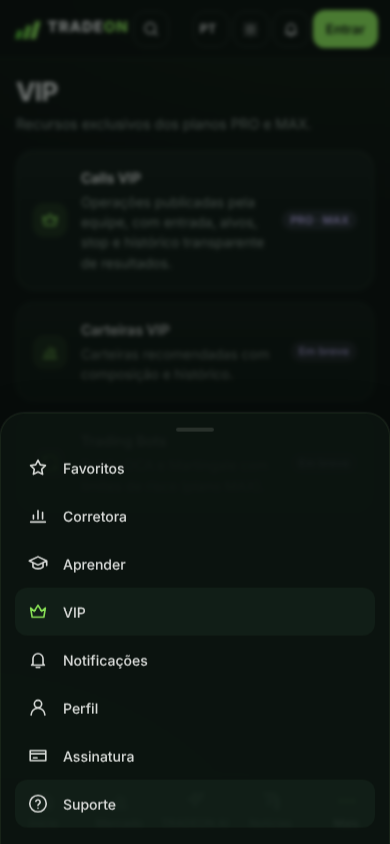
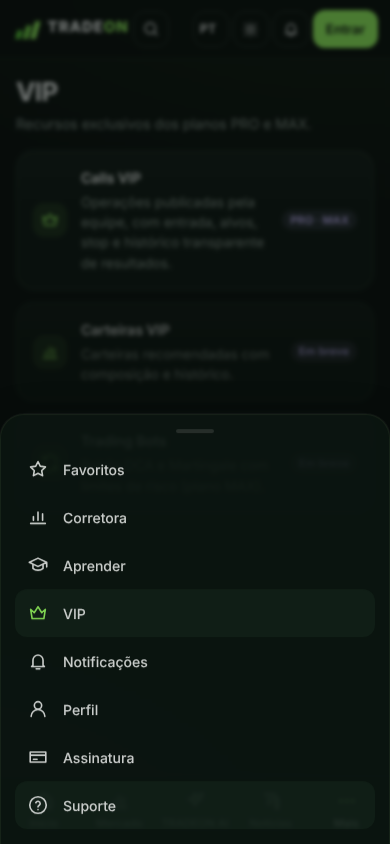
Admin: alterar plano dos usuários (cortesia PRO/MAX) e painel admin sem cortes no celular
Concessão separada de assinatura/pagamento (plan_grants), só por admin, auditada;
plano efetivo = maior entre assinatura paga e concessão vigente. Abas do admin em
grade no celular e lista de usuários em cartões.

Claude-Session: https://claude.ai/code/session_017CdmavtXnn7b6KQjNdhrWi

diff --git a/tests/unit/db-migrations.test.ts b/tests/unit/db-migrations.test.ts
@@ -29,7 +29,7 @@ beforeAll(async () => {
 describe("migrações em Postgres real", () => {
   it("todas aplicam em ordem e as tabelas têm RLS ligada", async () => {
     const r = await db.query<{ relname: string; relrowsecurity: boolean }>(`select relname, relrowsecurity from pg_class where relnamespace='public'::regnamespace and relkind='r' order by 1`);
-    expect(r.rows.map((x) => x.relname)).toEqual(["admin_audit_logs", "ai_conversations", "ai_examples", "ai_knowledge", "ai_knowledge_chunks", "ai_messages", "ai_requests", "ai_settings", "ai_usage", "app_admins", "broker_connections", "favorites", "notifications", "payment_webhook_events", "profiles", "subscription_events", "subscription_payments", "subscription_plans", "subscriptions", "user_preferences", "vip_call_events", "vip_calls"]);
+    expect(r.rows.map((x) => x.relname)).toEqual(["admin_audit_logs", "ai_conversations", "ai_examples", "ai_knowledge", "ai_knowledge_chunks", "ai_messages", "ai_requests", "ai_settings", "ai_usage", "app_admins", "broker_connections", "favorites", "notifications", "payment_webhook_events", "plan_grants", "profiles", "subscription_events", "subscription_payments", "subscription_plans", "subscriptions", "user_preferences", "vip_call_events", "vip_calls"]);
     expect(r.rows.every((x) => x.relrowsecurity)).toBe(true);
   });
   it("cadastro cria perfil (nome; telefone só em E.164) e notificação de boas-vindas", async () => {
@@ -370,5 +370,53 @@ describe("Conexões com corretoras (Postgres real)", () => {
       expect((await db.query("select status, bots_allowed, last_error from public.broker_connections")).rows).toEqual([{ status: "invalid", bots_allowed: false, last_error: "invalid_key" }]);
       await db.query("delete from public.broker_connections where id = $1", [id]); expect((await db.query("select id from public.broker_connections")).rows).toEqual([]);
     });
+  });
+});
+
+describe("Plano concedido pelo administrador (cortesia, não pagamento)", () => {
+  const ADM = "c1c1c1c1-c1c1-4c1c-8c1c-c1c1c1c1c1c1", U = "c2c2c2c2-c2c2-4c2c-8c2c-c2c2c2c2c2c2", P = "c3c3c3c3-c3c3-4c3c-8c3c-c3c3c3c3c3c3", S = "s".repeat(40);
+  beforeAll(async () => {
+    await db.query("insert into auth.users (id, email) values ($1, 'gadm@t.com'), ($2, 'gu@t.com'), ($3, 'gpaid@t.com')", [ADM, U, P]);
+    await db.query("insert into public.app_admins (user_id) values ($1)", [ADM]);
+    await db.query(`select public.billing_sync_subscription($1, $2, 'pro', 'active', 'stripe', 'cus_g', 'sub_g', now(), now(), now() + interval '30 days', false, null, 'teste')`, [S, P]);
+  });
+  const plan = async (uid: string) => (await db.query<{ p: string }>("select public.current_plan($1) p", [uid])).rows[0].p;
+  it("só admin concede; usuário não se dá plano nem escreve na tabela", async () => {
+    await as(U, async () => {
+      expect(await fails(db.query("select public.admin_set_plan($1, 'max')", [U]))).toBe(true);
+      expect(await fails(db.query("insert into public.plan_grants (user_id, plan_id) values ($1, 'max')", [U]))).toBe(true);
+    });
+    expect(await plan(U)).toBe("free");
+  });
+  it("concede PRO/MAX com ou sem prazo, sem tocar em assinatura/pagamento; auditado", async () => {
+    await as(ADM, async () => { await db.query("select public.admin_set_plan($1, 'max', 30, 'parceiro')", [U]); });
+    expect(await plan(U)).toBe("max");
+    await as(U, async () => {
+      expect((await db.query<{ p: string }>("select public.my_plan() p")).rows[0].p).toBe("max");
+      expect((await db.query("select plan_id from public.plan_grants")).rows).toEqual([{ plan_id: "max" }]);
+      expect(await fails(db.query("select note from public.plan_grants"))).toBe(true);
+    });
+    expect((await db.query("select count(*)::int n from public.subscription_payments where user_id = $1", [U])).rows[0]).toEqual({ n: 0 });
+    expect((await db.query("select plan_id, status from public.subscriptions where user_id = $1", [U])).rows).toEqual([{ plan_id: "free", status: "none" }]);
+    const a = await db.query<{ action: string; details: { plan: string; days: number } }>("select action, details from public.admin_audit_logs where target_id = $1 order by created_at", [U]);
+    expect(a.rows.map((x) => [x.action, x.details.plan, x.details.days])).toEqual([["plan.grant", "max", 30]]);
+    await as(ADM, async () => {
+      const r = await db.query<{ plan: string; grant_plan: string; grant_expires: string | null }>("select plan, grant_plan, grant_expires from public.admin_list_users('gu@')");
+      expect(r.rows[0].plan).toBe("max"); expect(r.rows[0].grant_plan).toBe("max"); expect(r.rows[0].grant_expires).not.toBeNull();
+      await db.query("select public.admin_set_plan($1, 'pro')", [U]);
+    });
+    expect(await plan(U)).toBe("pro");
+    expect((await db.query("select expires_at from public.plan_grants where user_id = $1", [U])).rows).toEqual([{ expires_at: null }]);
+  });
+  it("concessão vencida não vale; FREE remove a cortesia mas não cancela assinatura paga; maior plano prevalece", async () => {
+    await db.query("update public.plan_grants set expires_at = now() - interval '1 minute' where user_id = $1", [U]);
+    expect(await plan(U)).toBe("free");
+    await as(ADM, async () => {
+      await db.query("select public.admin_set_plan($1, 'max')", [P]); expect((await db.query<{ plan: string }>("select plan from public.admin_list_users('gpaid@')")).rows[0].plan).toBe("max");
+      await db.query("select public.admin_set_plan($1, 'free')", [P]);
+      for (const q of ["select public.admin_set_plan($1, 'gold')", "select public.admin_set_plan($1, 'pro', 0)", "select public.admin_set_plan($1, 'pro', 99999)"]) expect(await fails(db.query(q, [P])), q).toBe(true);
+      expect(await fails(db.query("select public.admin_set_plan('c9c9c9c9-c9c9-4c9c-8c9c-c9c9c9c9c9c9', 'pro')"))).toBe(true);
+    });
+    expect(await plan(P)).toBe("pro");
   });
 });

diff --git a/app/(app)/admin/usuarios/page.tsx b/app/(app)/admin/usuarios/page.tsx
@@ -2,6 +2,11 @@ import { adminListUsers } from "@/services/calls";
 import { getSessionUser } from "@/services/session";
 import { clock } from "@/lib/format";
 import { AdminToggle } from "@/features/admin/AdminToggle";
+import { PlanControl } from "@/features/admin/PlanControl";
+
+const day = (iso: string) => new Date(iso).toLocaleDateString("pt-BR", { day: "2-digit", month: "short", year: "numeric", timeZone: "America/Sao_Paulo" });
+const paidPlan = (u: { sub_plan: string | null; sub_status: string | null; period_end: string | null }) =>
+  u.sub_plan && u.sub_plan !== "free" && ["active", "trialing", "past_due"].includes(u.sub_status ?? "") && (!u.period_end || Date.parse(u.period_end) > Date.now()) ? u.sub_plan : "free";
 
 export default async function AdminUsers({ searchParams }: { searchParams: Promise<Record<string, string | undefined>> }) {
   const sp = await searchParams; const q = (sp.q ?? "").slice(0, 80); const page = Math.max(0, Number(sp.p) || 0);
@@ -10,10 +15,16 @@ export default async function AdminUsers({ searchParams }: { searchParams: Promi
     <div className="page-h"><div><h1>Usuários</h1><p className="mt" style={{ margin: "6px 0 0" }}>Plano efetivo calculado no banco · dados pessoais visíveis só para administradores</p></div></div>
     <form className="row cv-filters" action="/admin/usuarios" method="get" role="search"><label className="sr" htmlFor="uq">Buscar</label><input id="uq" name="q" defaultValue={q} placeholder="E-mail ou nome" /><button className="btn s">Buscar</button></form>
     {!users ? <p className="note" role="alert">Não foi possível carregar os usuários.</p> : users.length === 0 ? <p className="note">Nenhum usuário encontrado.</p> :
-      <div className="card"><div className="tw"><table data-testid="adm-users"><thead><tr><th>Usuário</th><th>Plano</th><th>Assinatura</th><th>IA</th><th>Desde</th><th>Admin</th></tr></thead>
-        <tbody>{users.map((u) => <tr key={u.id}><td><b>{u.name ?? "—"}</b><div className="src">{u.email}</div></td><td><span className={`bd ${u.plan === "free" ? "v" : ""}`}>{u.plan.toUpperCase()}</span></td>
-          <td className="src">{u.sub_status ?? "—"}{u.period_end ? ` · até ${clock(u.period_end, "pt")}` : ""}</td><td className="num">{u.ai_used}</td><td className="src">{clock(u.created_at, "pt")}</td>
-          <td>{u.is_admin && <span className="bd">admin</span>} <AdminToggle id={u.id} admin={u.is_admin} self={u.id === me?.id} /></td></tr>)}</tbody></table></div></div>}
-    <p className="src">Bloqueio/suspensão de contas ainda não implementado: exige a chave de serviço do Supabase (Auth Admin) num backend separado — ver relatório.</p>
+      <div className="card"><table className="adm-users" data-testid="adm-users"><thead><tr><th>Usuário</th><th>Plano</th><th>Alterar plano</th><th>IA</th><th>Desde</th><th>Admin</th></tr></thead>
+        <tbody>{users.map((u) => { const paid = paidPlan(u); return (<tr key={u.id}>
+          <td data-l="Usuário"><b>{u.name ?? "—"}</b><div className="src au-mail">{u.email}</div></td>
+          <td data-l="Plano"><span className={`bd ${u.plan === "free" ? "v" : ""}`} data-testid="adm-plan-badge">{u.plan.toUpperCase()}</span>
+            <div className="src" data-testid="adm-plan-src">{u.grant_plan ? `cortesia ${u.grant_plan.toUpperCase()}${u.grant_expires ? ` até ${day(u.grant_expires)}` : " · sem prazo"}` : null}
+              {u.grant_plan && paid !== "free" ? " · " : null}{paid !== "free" ? `pago ${paid.toUpperCase()}${u.period_end ? ` até ${day(u.period_end)}` : ""}` : null}
+              {!u.grant_plan && paid === "free" && u.sub_status && u.sub_status !== "none" ? `assinatura ${u.sub_status}` : null}</div></td>
+          <td data-l="Alterar plano"><PlanControl id={u.id} email={u.email} grant={u.grant_plan} paid={paid} /></td>
+          <td data-l="Mensagens IA" className="num">{u.ai_used}</td><td data-l="Desde" className="src">{clock(u.created_at, "pt")}</td>
+          <td data-l="Admin">{u.is_admin && <span className="bd">admin</span>} <AdminToggle id={u.id} admin={u.is_admin} self={u.id === me?.id} /></td></tr>); })}</tbody></table></div>}
+    <p className="src">“Alterar plano” libera PRO/MAX como cortesia (sem cobrança, registrado na auditoria) e não mexe em assinatura paga. Bloqueio/suspensão de contas ainda não implementado: exige a chave de serviço do Supabase (Auth Admin) num backend separado.</p>
   </>);
 }

diff --git a/services/subscription.ts b/services/subscription.ts
@@ -2,18 +2,25 @@ import { cache } from "react";
 import { NextResponse } from "next/server";
 import { getSupabase } from "@/lib/supabase/server";
 import { getSessionUser, type SessionUser } from "./session";
-import { can, effectivePlan, minPlanFor, type Feature, type PlanId } from "@/lib/plans";
+import { PLANS, can, effectivePlan, isPlanId, minPlanFor, type Feature, type PlanId } from "@/lib/plans";
 
 export interface SubscriptionRow { plan_id: string; status: string; provider: string | null; provider_customer_id: string | null; started_at: string | null; current_period_start: string | null; current_period_end: string | null; cancel_at_period_end: boolean; canceled_at: string | null; updated_at: string }
-export interface Entitlements { user: SessionUser; plan: PlanId; sub: SubscriptionRow | null }
+export interface PlanGrant { plan_id: "pro" | "max"; expires_at: string | null }
+export interface Entitlements { user: SessionUser; plan: PlanId; sub: SubscriptionRow | null; grant: PlanGrant | null }
 
 /** Assinatura e plano efetivo do usuário logado (lidos com a sessão dele; RLS garante que só vê a própria). */
 export const getEntitlements = cache(async (): Promise<Entitlements | null> => {
   const user = await getSessionUser(); if (!user) return null;
-  const sb = await getSupabase(); if (!sb) return { user, plan: "free", sub: null };
-  const { data } = await sb.from("subscriptions").select("plan_id,status,provider,provider_customer_id,started_at,current_period_start,current_period_end,cancel_at_period_end,canceled_at,updated_at").eq("user_id", user.id).maybeSingle();
+  const sb = await getSupabase(); if (!sb) return { user, plan: "free", sub: null, grant: null };
+  const [{ data }, g] = await Promise.all([
+    sb.from("subscriptions").select("plan_id,status,provider,provider_customer_id,started_at,current_period_start,current_period_end,cancel_at_period_end,canceled_at,updated_at").eq("user_id", user.id).maybeSingle(),
+    sb.from("plan_grants").select("plan_id,expires_at").eq("user_id", user.id).maybeSingle(),
+  ]);
   const sub = (data as SubscriptionRow | null) ?? null;
-  return { user, plan: effectivePlan(sub), sub };
+  // Plano concedido pela equipe (cortesia, sem cobrança): vale enquanto não vencer; prevalece o maior dos dois — igual a public.current_plan.
+  const gr = (g.data as PlanGrant | null) ?? null; const grant = gr && isPlanId(gr.plan_id) && (!gr.expires_at || Date.parse(gr.expires_at) > Date.now()) ? gr : null;
+  const paid = effectivePlan(sub); const plan = grant && PLANS[grant.plan_id].rank > PLANS[paid].rank ? grant.plan_id : paid;
+  return { user, plan, sub, grant };
 });
 
 /** Porteiro das APIs premium: 401 sem sessão, 403 (com o plano necessário) sem permissão. */

diff --git a/features/admin/PlanControl.tsx b/features/admin/PlanControl.tsx
@@ -1,0 +1,25 @@
+"use client";
+import { useState } from "react";
+import { useRouter } from "next/navigation";
+
+const DUR = [["", "Sem prazo"], ["7", "7 dias"], ["30", "30 dias"], ["90", "90 dias"], ["365", "1 ano"]] as const;
+/** Troca o plano de uma conta por concessão do admin (cortesia, sem cobrança). "Free" retira a cortesia; assinatura paga continua valendo. */
+export function PlanControl({ id, email, grant, paid }: { id: string; email: string; grant: "pro" | "max" | null; paid: string }) {
+  const router = useRouter(); const [plan, setPlan] = useState<string>(grant ?? "free"); const [days, setDays] = useState(""); const [busy, setBusy] = useState(false); const [err, setErr] = useState<string | null>(null);
+  const changed = plan !== (grant ?? "free") || (plan !== "free" && days !== "");
+  async function go() {
+    const msg = plan === "free" ? `Retirar o plano concedido de ${email}?${paid !== "free" ? ` A assinatura paga (${paid.toUpperCase()}) continua valendo.` : ""}`
+      : `Liberar o plano ${plan.toUpperCase()} para ${email} ${days ? `por ${DUR.find((d) => d[0] === days)?.[1]}` : "sem prazo"}? Sem cobrança — fica registrado na auditoria.`;
+    if (!window.confirm(msg)) return;
+    setBusy(true); setErr(null);
+    const r = await fetch(`/api/admin/users/${id}`, { method: "POST", headers: { "content-type": "application/json" }, body: JSON.stringify(plan === "free" ? { plan } : { plan, days: days ? Number(days) : null }) });
+    setBusy(false); if (r.ok) { setDays(""); router.refresh(); } else setErr("Não foi possível alterar.");
+  }
+  return (<div className="adm-plan" data-testid="adm-plan">
+    <select aria-label={`Plano de ${email}`} value={plan} onChange={(e) => setPlan(e.target.value)} disabled={busy} data-testid="adm-plan-sel">
+      <option value="free">Free</option><option value="pro">Pro</option><option value="max">Max</option></select>
+    {plan !== "free" && <select aria-label="Duração" value={days} onChange={(e) => setDays(e.target.value)} disabled={busy} data-testid="adm-plan-days">{DUR.map(([v, t]) => <option key={v} value={v}>{t}</option>)}</select>}
+    <button type="button" className="btn sm" disabled={busy || !changed} onClick={go} data-testid="adm-plan-apply">{busy ? "…" : "Aplicar"}</button>
+    {err && <small className="af-err">{err}</small>}
+  </div>);
+}

diff --git a/app/(app)/assinatura/page.tsx b/app/(app)/assinatura/page.tsx
@@ -28,9 +28,10 @@ export default async function Assinatura({ searchParams }: { searchParams: Promi
       <div><small>{tr("pl.currentPlan")}</small><b data-testid="cur-plan">{PLANS[ent.plan].name}</b></div>
       <div><small>Status</small><b><span className={`bd ${st === "active" || st === "trialing" ? "" : st === "past_due" ? "a" : st === "none" ? "v" : "r"}`} data-testid="cur-status">{tr(`pl.st.${st}` as never)}</span></b></div>
       <div><small>{tr("pl.since")}</small><b>{date(s?.started_at ?? null)}</b></div>
-      <div><small>{s?.cancel_at_period_end || st === "canceled" ? tr("pl.ends") : tr("pl.renews")}</small><b>{ent.plan === "free" ? "—" : date(s?.current_period_end ?? null)}</b></div>
+      <div><small>{s?.cancel_at_period_end || st === "canceled" ? tr("pl.ends") : tr("pl.renews")}</small><b>{ent.plan === "free" ? "—" : ent.grant?.plan_id === ent.plan ? date(ent.grant.expires_at) : date(s?.current_period_end ?? null)}</b></div>
       <div><small>{tr("pl.aiUsage")}</small><b data-testid="ai-quota">{quota ? (quota.limit === null ? tr("pl.aiUnlimited") : tr("pl.aiUsed", { used: String(Math.min(quota.used, quota.limit)), limit: String(quota.limit) })) : "—"}</b></div>
     </section>
+    {ent.grant && ent.grant.plan_id === ent.plan && <p className="note" role="status" data-testid="plan-grant">{lang === "pt" ? `Plano ${PLANS[ent.grant.plan_id].name} liberado pela equipe TRADEON, sem cobrança${ent.grant.expires_at ? `, até ${date(ent.grant.expires_at)}` : ""}.` : `${PLANS[ent.grant.plan_id].name} plan granted by the TRADEON team, free of charge${ent.grant.expires_at ? `, until ${date(ent.grant.expires_at)}` : ""}.`}</p>}
     {s?.cancel_at_period_end && ent.plan !== "free" && <p className="note" role="status">{tr("pl.cancelNote", { date: date(s.current_period_end) })}</p>}
     {st === "past_due" && ent.plan !== "free" && <p className="note" role="alert">{tr("pl.pastDueNote", { date: date(s?.current_period_end ?? null) })}</p>}
 

diff --git a/app/api/admin/users/[id]/route.ts b/app/api/admin/users/[id]/route.ts
@@ -2,11 +2,20 @@ import { NextResponse } from "next/server";
 import { z } from "zod";
 import { adminCtx, dbError } from "@/lib/adminApi";
 
-/** Concede/remove permissão administrativa (auditado no banco; ninguém remove a si mesmo). */
+const Body = z.union([
+  z.object({ admin: z.boolean() }).strict(),
+  z.object({ plan: z.enum(["free", "pro", "max"]), days: z.number().int().min(1).max(3650).nullable().optional(), note: z.string().max(200).optional() }).strict(),
+]);
+/** Ações do admin sobre uma conta (autorização e auditoria no banco):
+ *  - { admin } concede/remove permissão administrativa (ninguém remove a si mesmo);
+ *  - { plan, days?, note? } concede plano PRO/MAX como cortesia (sem cobrança, separado de assinatura/pagamento) ou "free" para retirar a cortesia. */
 export async function POST(req: Request, { params }: { params: Promise<{ id: string }> }) {
   const ctx = await adminCtx(req); if ("res" in ctx) return ctx.res;
-  const id = (await params).id; const b = z.object({ admin: z.boolean() }).strict().safeParse(await req.json().catch(() => null));
+  const id = (await params).id; const b = Body.safeParse(await req.json().catch(() => null));
   if (!/^[0-9a-f-]{36}$/i.test(id) || !b.success) return NextResponse.json({ error: "invalid" }, { status: 400 });
-  const { error } = await ctx.sb.rpc("admin_set_admin", { p_user: id, p_admin: b.data.admin }); if (error) return dbError(error);
+  const { error } = "admin" in b.data
+    ? await ctx.sb.rpc("admin_set_admin", { p_user: id, p_admin: b.data.admin })
+    : await ctx.sb.rpc("admin_set_plan", { p_user: id, p_plan: b.data.plan, p_days: b.data.plan === "free" ? null : b.data.days ?? null, p_note: b.data.note || null });
+  if (error) return dbError(error);
   return NextResponse.json({ ok: true });
 }

diff --git a/app/globals.css b/app/globals.css
@@ -616,3 +616,20 @@ html.splash-out .splash-ov{opacity:0;pointer-events:none}
 .bk-howto{margin:12px 0;padding-left:20px;font-size:13.5px;color:var(--mt);display:grid;gap:4px}
 .bk-new{max-width:760px}
 td.up,b.up{color:var(--g-tx)}td.dn,b.dn{color:var(--rd)}
+/* Admin: a grade não pode ser alargada por tabelas/abas (no celular cortava a página). */
+.adm{grid-template-columns:minmax(0,1fr)}.adm>*{min-width:0}
+.adm .page-h p,.adm .src{overflow-wrap:anywhere}
+.adm-plan{display:flex;flex-wrap:wrap;gap:6px;align-items:center}
+.adm-plan select{min-height:36px;width:auto;padding:0 30px 0 10px}
+table.adm-users{width:100%}
+@media (max-width:760px){
+  table.adm-users thead{display:none}
+  table.adm-users,table.adm-users tbody,table.adm-users tr,table.adm-users td{display:block;width:100%}
+  table.adm-users tr{padding:14px 0;border-bottom:1px solid var(--bd)}table.adm-users tr:last-child{border-bottom:0}
+  table.adm-users td{border:0;padding:4px 0;display:flex;flex-wrap:wrap;gap:6px 10px;align-items:center;justify-content:flex-end;text-align:right}
+  table.adm-users td::before{content:attr(data-l);color:var(--mt);font-size:12px;text-transform:uppercase;letter-spacing:.04em;text-align:left;margin-right:auto}
+  table.adm-users td:first-child{display:block;text-align:left}table.adm-users td:first-child::before{content:none}
+  table.adm-users td:not(:first-child)>.src{flex-basis:100%;text-align:right}
+  .adm>nav.ctabs{width:100%;display:grid;grid-template-columns:repeat(4,minmax(0,1fr));gap:2px}
+  .adm>nav.ctabs a{padding:8px 4px;font-size:13px;text-align:center;overflow:hidden;text-overflow:ellipsis}
+}

diff --git a/lib/adminApi.ts b/lib/adminApi.ts
@@ -11,9 +11,9 @@ export async function adminCtx(req: Request) {
   const sb = await getSupabase(); if (!sb) return { res: NextResponse.json({ error: "unavailable" }, { status: 503 }) } as const;
   return { sb } as const;
 }
-const KNOWN = ["admin_required", "not_found", "call_finished", "not_draft", "not_active", "invalid_target", "target_out_of_order", "invalid_reason", "no_targets_hit", "exit_required", "cannot_remove_self"];
+const KNOWN = ["admin_required", "not_found", "call_finished", "not_draft", "not_active", "invalid_target", "target_out_of_order", "invalid_reason", "no_targets_hit", "exit_required", "cannot_remove_self", "invalid_plan", "invalid_days", "user_not_found"];
 export function dbError(e: { message?: string; code?: string } | null) {
   const msg = e?.message ?? ""; const code = KNOWN.find((k) => msg.includes(k)) ?? (e?.code === "23514" ? "invalid_levels" : "unavailable");
-  const status = code === "admin_required" ? 403 : code === "not_found" ? 404 : code === "unavailable" ? 503 : 400;
+  const status = code === "admin_required" ? 403 : code === "not_found" || code === "user_not_found" ? 404 : code === "unavailable" ? 503 : 400;
   return NextResponse.json({ error: code }, { status });
 }

diff --git a/services/calls.ts b/services/calls.ts
@@ -28,7 +28,7 @@ export async function getCall(id: string): Promise<{ call: VipCall; events: Call
 export async function adminOverview(): Promise<Record<string, unknown> | null> {
   const sb = await getSupabase(); if (!sb) return null; const { data, error } = await sb.rpc("admin_overview"); return error ? null : (data as Record<string, unknown>);
 }
-export interface AdminUser { id: string; email: string; name: string | null; created_at: string; plan: string; sub_status: string | null; period_end: string | null; ai_used: number; is_admin: boolean }
+export interface AdminUser { id: string; email: string; name: string | null; created_at: string; plan: string; sub_status: string | null; period_end: string | null; ai_used: number; is_admin: boolean; sub_plan: string | null; grant_plan: "pro" | "max" | null; grant_expires: string | null }
 export async function adminListUsers(search = "", offset = 0): Promise<AdminUser[] | null> {
   const sb = await getSupabase(); if (!sb) return null; const { data, error } = await sb.rpc("admin_list_users", { p_search: search || null, p_limit: 50, p_offset: offset }); return error ? null : (data as AdminUser[]);
 }

diff --git a/tests/e2e/admin_plans.py b/tests/e2e/admin_plans.py
@@ -1,0 +1,66 @@
+"""E2E: admin troca o plano de usuários (cortesia PRO/MAX, sem cobrança) e o painel admin no celular sem cortes. Requer `npm run build`."""
+import json, re, subprocess, os, time, urllib.request
+from playwright.sync_api import sync_playwright
+from common import *
+
+m = mock()
+sb = subprocess.Popen(["node", "tests/mock-supabase.mjs"], stdout=subprocess.DEVNULL, preexec_fn=os.setsid); time.sleep(1)
+ENV = {"SUPABASE_URL": "http://127.0.0.1:4020", "SUPABASE_ANON_KEY": "anon-test", "COINGECKO_BASE_URL": "http://127.0.0.1:4010/ok", "NEWS_API_BASE_URL": "http://127.0.0.1:4010/ok", "NEWS_API_KEY": "t", "REGISTER_RATE_IP_PER_HOUR": "1000"}
+s1 = start(3976, ENV); B = "http://127.0.0.1:3976"
+def mk(path): return urllib.request.urlopen("http://127.0.0.1:4020" + path).read().decode()
+_n = [9500]
+def fresh(): _n[0] += 1; return f"ok{_n[0]}@teste.com"
+def login(pg, email):
+    pg.goto(B + "/login"); pg.wait_for_selector("form"); pg.fill("#email", email); pg.fill("#password", "Senha@123")
+    pg.get_by_role("button", name=re.compile("^(Entrar|Sign in)")).click(); pg.wait_for_url(B + "/", timeout=15000); pg.wait_for_load_state("networkidle")
+def go(pg, path, sel="main h1"): pg.goto(B + path); pg.wait_for_selector(sel, timeout=25000); pg.wait_for_load_state("networkidle")
+def api(pg, method, path, body=None): return pg.evaluate("([m,p,b])=>fetch(p,{method:m,headers:{'content-type':'application/json'},body:b?JSON.stringify(b):undefined}).then(async r=>[r.status,await r.text()])", [method, path, body])
+def row(pg, email): return pg.locator("[data-testid=adm-users] tr", has_text=email)
+def set_plan(pg, email, plan, days=None):
+    r = row(pg, email); r.get_by_test_id("adm-plan-sel").select_option(plan)
+    if days is not None: r.get_by_test_id("adm-plan-days").select_option(days)
+    r.get_by_test_id("adm-plan-apply").click(); pg.wait_for_timeout(600); pg.wait_for_load_state("networkidle")
+try:
+    with sync_playwright() as p:
+        b = p.chromium.launch(); errs = []
+        mk("/__reset")
+        uA, uF, uP = fresh(), fresh(), fresh(); mk(f"/__set_plan?email={uA}&plan=free"); mk(f"/__set_admin?email={uA}"); mk(f"/__set_plan?email={uF}&plan=free"); mk(f"/__set_plan?email={uP}&plan=pro")
+        A = b.new_context(viewport={"width": 1440, "height": 900}); pa = A.new_page(); pa.on("pageerror", lambda e: errs.append(str(e)[:80])); pa.on("dialog", lambda d: d.accept()); login(pa, uA)
+        F = b.new_context(); pf = F.new_page(); login(pf, uF); P2 = b.new_context(); login(P2.new_page(), uP)
+        go(pf, "/corretora"); check("FREE antes: sem acesso ao recurso MAX", pf.get_by_test_id("paywall").is_visible())
+        check("usuário comum não altera plano pela API (403)", api(pf, "POST", "/api/admin/users/00000000-0000-4000-8000-000000000000", {"plan": "max"})[0] == 403)
+        go(pa, "/admin/usuarios", "[data-testid=adm-users]")
+        check("Aplicar desabilitado sem mudança", row(pa, uF).get_by_test_id("adm-plan-apply").is_disabled())
+        set_plan(pa, uF, "max", "30")
+        check("admin libera MAX por 30 dias: selo MAX e origem 'cortesia até …'", row(pa, uF).get_by_test_id("adm-plan-badge").inner_text() == "MAX" and "cortesia MAX até" in row(pa, uF).get_by_test_id("adm-plan-src").inner_text(), row(pa, uF).inner_text()[:200])
+        aud = [a for a in json.loads(mk("/__calls"))["audit"] if a["action"].startswith("plan.")]
+        check("ação registrada na auditoria (plan.grant, 30 dias)", len(aud) == 1 and aud[0]["action"] == "plan.grant" and aud[0]["details"]["days"] == 30)
+        bill = json.loads(mk("/__billing")); check("nenhum pagamento nem assinatura paga criados (não simula cobrança)", bill["payments"] == [] and not any(x["plan_id"] == "max" for x in bill["subs"].values()))
+        go(pf, "/corretora", "main h1"); check("usuário passa a ter o recurso MAX na hora", pf.locator("[data-testid=paywall]").count() == 0 and pf.locator("[data-testid=bk-form]").count() == 1)
+        go(pf, "/assinatura", "[data-testid=cur-plan]"); check("assinatura mostra Max e aviso 'liberado pela equipe, sem cobrança'", pf.get_by_test_id("cur-plan").inner_text() == "Max" and "sem cobrança" in pf.get_by_test_id("plan-grant").inner_text())
+        go(pa, "/admin/usuarios", "[data-testid=adm-users]"); set_plan(pa, uF, "pro")
+        check("troca para PRO sem prazo", row(pa, uF).get_by_test_id("adm-plan-badge").inner_text() == "PRO" and "sem prazo" in row(pa, uF).get_by_test_id("adm-plan-src").inner_text())
+        go(pf, "/corretora"); check("PRO volta a ver o convite do MAX", pf.get_by_test_id("paywall").is_visible())
+        go(pa, "/admin/usuarios", "[data-testid=adm-users]"); set_plan(pa, uF, "free")
+        check("Free retira a cortesia", row(pa, uF).get_by_test_id("adm-plan-badge").inner_text() == "FREE")
+        set_plan(pa, uP, "max")
+        check("assinante PRO pago recebe MAX: mostra cortesia e pago", row(pa, uP).get_by_test_id("adm-plan-badge").inner_text() == "MAX" and "pago PRO" in row(pa, uP).get_by_test_id("adm-plan-src").inner_text())
+        set_plan(pa, uP, "free"); check("retirar cortesia mantém a assinatura paga (PRO)", row(pa, uP).get_by_test_id("adm-plan-badge").inner_text() == "PRO")
+        r = api(pa, "POST", "/api/admin/users/00000000-0000-4000-8000-000000000000", {"plan": "gold"}); check("plano inválido recusado (400)", r[0] == 400)
+        check("prazo inválido recusado (400)", api(pa, "POST", "/api/admin/users/00000000-0000-4000-8000-000000000000", {"plan": "pro", "days": 0})[0] == 400)
+        # celular: abas e páginas do admin sem corte
+        M = b.new_context(viewport={"width": 390, "height": 844}, is_mobile=True); pm = M.new_page(); pm.on("dialog", lambda d: d.accept()); login(pm, uA)
+        for path in ["/admin", "/admin/calls", "/admin/ia", "/admin/usuarios"]:
+            go(pm, path, "main h1")
+            ok = pm.evaluate("""() => { const w = innerWidth; const main = document.querySelector('main'); const nav = document.querySelector('nav.ctabs[aria-label=Administração]');
+              const navOk = nav && nav.getBoundingClientRect().right <= w + 1 && nav.getBoundingClientRect().left >= -1;
+              const wide = [...main.querySelectorAll('*')].filter(e => { const r = e.getBoundingClientRect(); if (!r.width) return false; let p = e.parentElement; while (p && p !== main) { const s = getComputedStyle(p); if (/(auto|scroll|hidden)/.test(s.overflowX)) return false; p = p.parentElement } return r.right > w + 1 });
+              return document.documentElement.scrollWidth <= w + 1 && navOk && wide.length === 0 ? 'ok' : 'nav=' + navOk + ' wide=' + wide.slice(0, 3).map(e => e.tagName + '.' + e.className).join(',') }""")
+            check(f"mobile sem corte: {path}", ok == "ok", ok)
+        check("mobile: troca de plano utilizável no celular", row(pm, uF).get_by_test_id("adm-plan-sel").is_visible() and row(pm, uF).get_by_test_id("adm-plan-apply").bounding_box()["x"] + row(pm, uF).get_by_test_id("adm-plan-apply").bounding_box()["width"] <= 391)
+        pm.screenshot(path="/tmp/claude-0/-home-claude/b159cd62-d4ba-5c1c-be75-ae988aec0a97/scratchpad/adm_users_mobile.png", full_page=True)
+        check_js(errs)
+        b.close()
+finally:
+    stop(s1); stop(m); stop(sb)
+finish()
